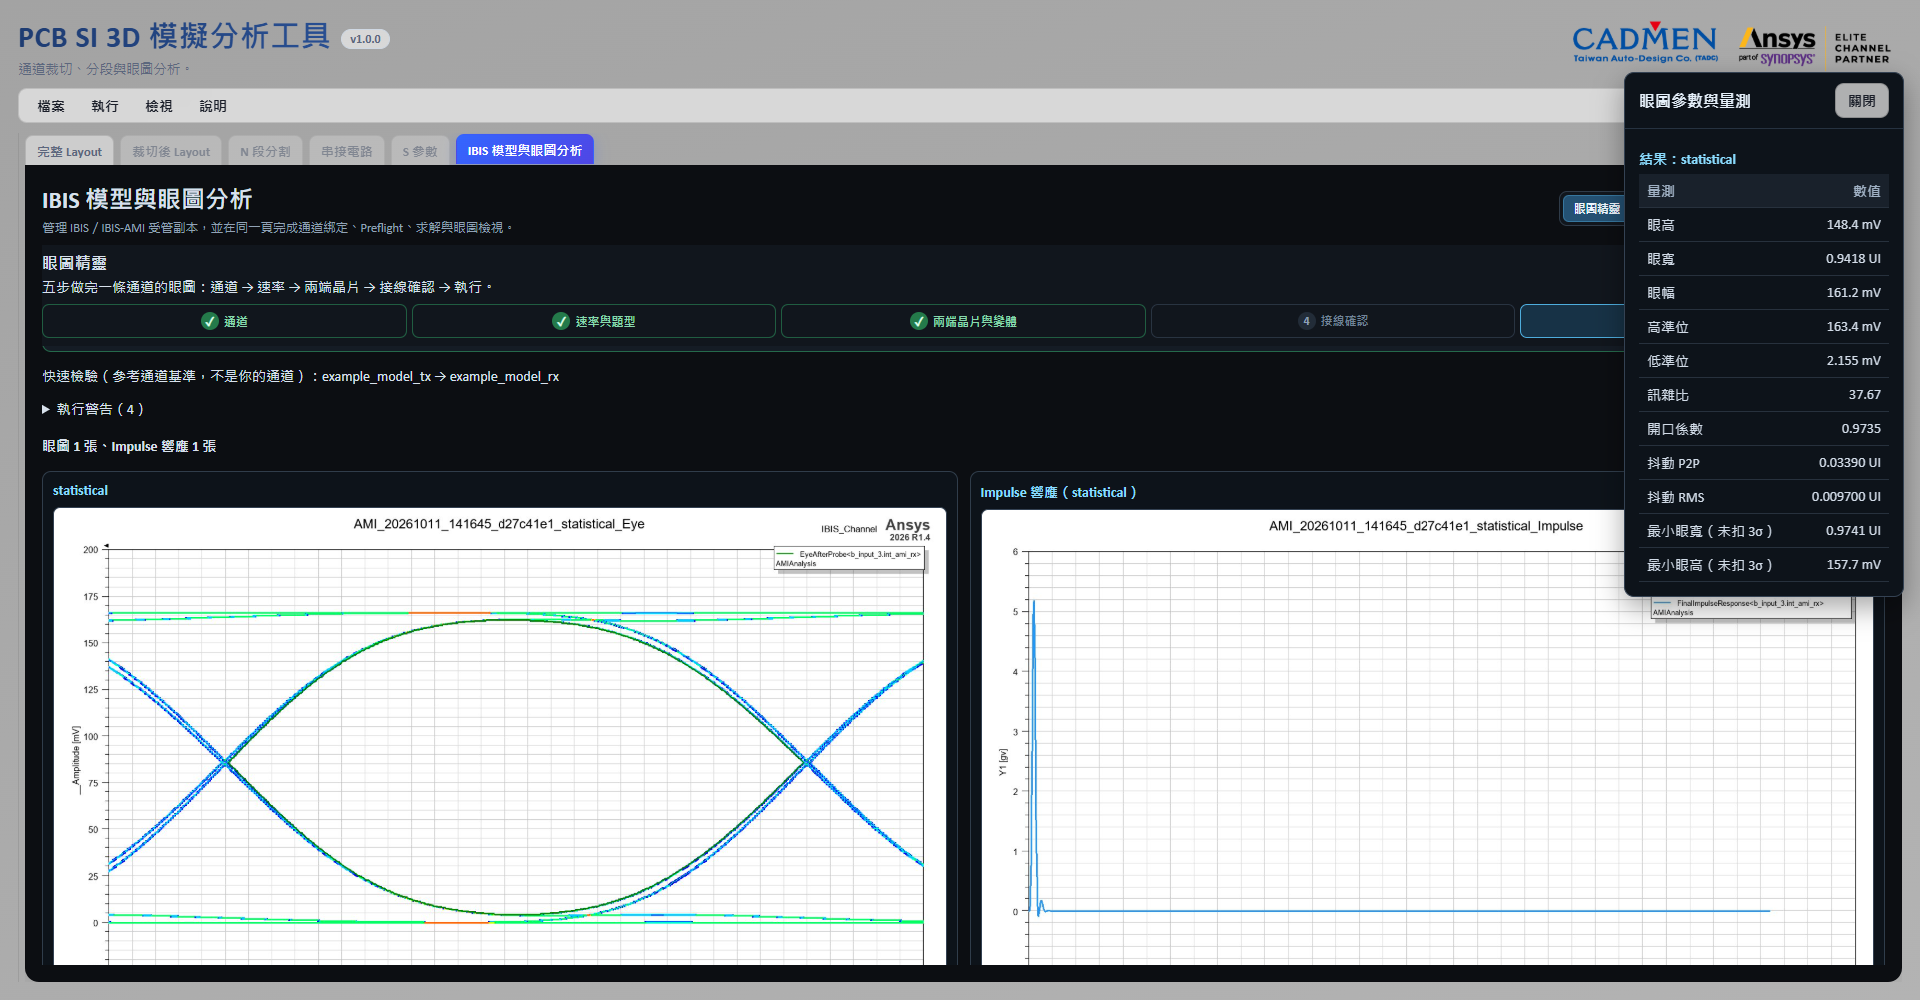
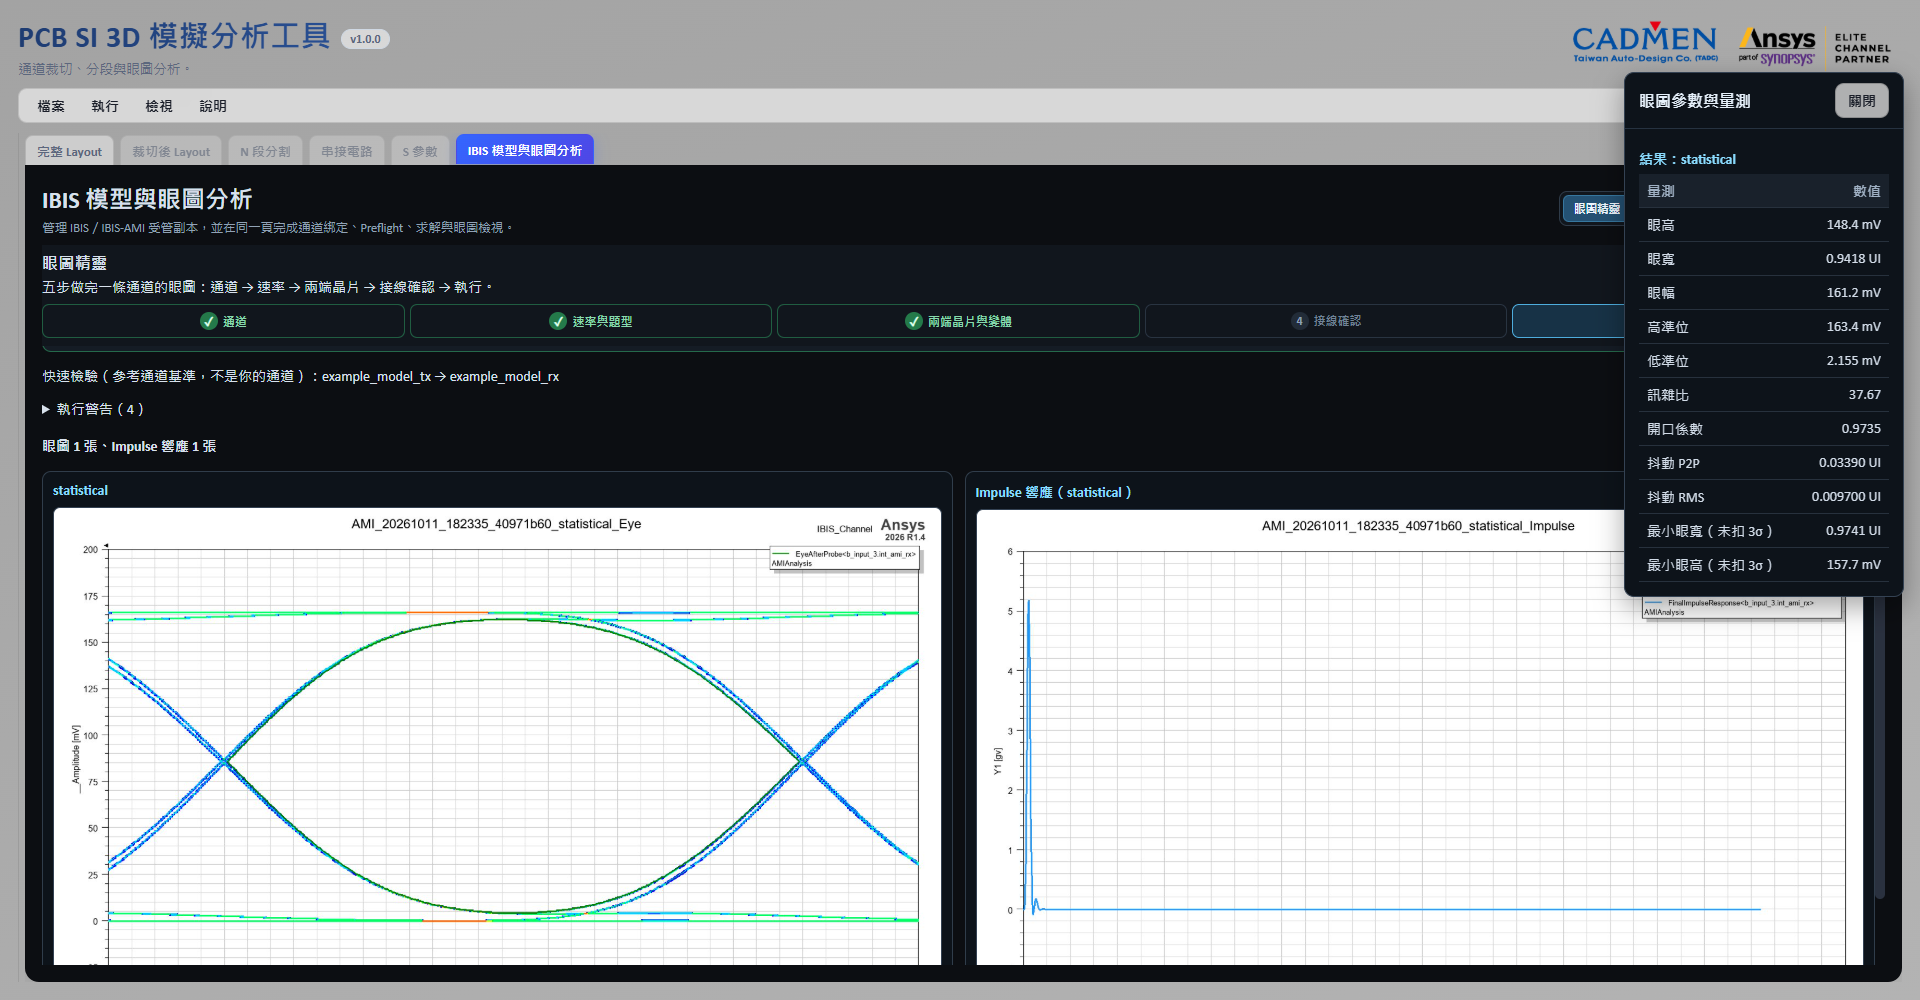
docs: 眼圖預設不疊 AEDT 量測表，重拍 06 章結果圖 (#55)

diff --git a/docs/visual-assets.md b/docs/visual-assets.md
@@ -44,8 +44,8 @@
 | `gui-26-wizard-preset.png` | 06 | 主圖 | 眼圖精靈第 2 步：常見規範帶入資料率、UI 與出處 | Ansys 範例差動通道 | 完成：瀏覽器模式 1920×1000（無視窗標題列），`cb01b63`（1.0.0），2026-10-11；PCIe Gen4 |
 | `gui-26b-wizard-ami-models.png` | 06 | 主圖 | 眼圖精靈第 3 步：兩端 AMI 套件、DLL 已信任、模型選定 | Ansys 範例 AMI 套件 | 完成：瀏覽器模式 1920×1000（無視窗標題列），`cb01b63`（1.0.0），2026-10-11 |
 | `gui-26c-wizard-ami-wiring.png` | 06 | 主圖 | 眼圖精靈第 4 步：接線、實際求解符號率與 UI、AMI 進階區 | 同上 | 完成：瀏覽器模式 1920×1000（無視窗標題列），`cb01b63`（1.0.0），2026-10-11 |
-| `gui-27-wizard-result.png` | 06 | 主圖 | 眼圖精靈第 5 步：結果頁只放眼圖畫廊，右上「眼圖參數」「開啟模擬資料夾」 | 求解授權 | 完成：瀏覽器模式 1920×1000，`f49983f`（1.0.0＋#0115 版面），2026-10-11；Ansys 範例 AMI、PCIe Gen4 快速檢驗實跑 91 秒 |
-| `gui-27b-wizard-result-params.png` | 06 | 新增圖 | 眼圖參數抽屜：量測表 | 同上 | 完成：同上；Statistical 眼高 148.4 mV／眼寬 0.9418 UI（與 `cb01b63` 那次相同） |
+| `gui-27-wizard-result.png` | 06 | 主圖 | 眼圖精靈第 5 步：結果頁只放眼圖畫廊，右上「眼圖參數」「開啟模擬資料夾」 | 求解授權 | 完成：瀏覽器模式 1920×1000，`84ee41f`（1.0.0＋#0115 版面，眼圖預設不疊 AEDT 量測表），2026-10-11；Ansys 範例 AMI、PCIe Gen4 快速檢驗實跑 186 秒；眼圖上無量測表 |
+| `gui-27b-wizard-result-params.png` | 06 | 新增圖 | 眼圖參數抽屜：量測表 | 同上 | 完成：同上；Statistical 眼高 148.4 mV／眼寬 0.9418 UI（與 `cb01b63`、`f49983f` 兩次相同） |
 | `gui-28-tdr-location.png` | 07 | 主圖 | 模擬 TDR 曲線與同一點的 Layout 標記、距離數字 | 求解 | 完成 |
 | `gui-29-measured-tdr.png` | 07 | 主圖 | 合法示範 CSV 的欄位設定與定位結果；只拍可讀區域，不拍 CSV 路徑 | 資料＋既有量測 | 缺項：沒有可公開的量測 CSV |
 | `gui-30-crosssection-preview.png` | 08 | 主圖 | 框範圍、切線與掃描後截面，訊號／參考角色可核對 | 資料 | 完成 |
@@ -82,6 +82,10 @@
 ## 重拍記錄（2026-10-11，結果頁版面）
 
 結果頁改成只放眼圖、量測表移到「眼圖參數」抽屜，各分析加「開啟模擬資料夾」後，重拍 `gui-27-wizard-result.png`、新增 `gui-27b-wizard-result-params.png`；同一套隔離後端與 Ansys 範例 AMI 模型，快速檢驗實跑一次（工具自開非圖形 AEDT，完成後自行關閉）。其他章節的結果圖不受影響：`gui-22` 是外部匯入結果（沒有資料夾按鈕），`gui-28` 的按鈕在曲線下方、不在畫面內，`gui-41` 未勾 ERL（沒有輸出檔）。
+
+## 重拍記錄（2026-10-11，眼圖不疊量測表）
+
+眼圖圖片改成預設不疊 AEDT 量測表（量測值仍在「眼圖參數」抽屜與 HTML 報告）後，以 `84ee41f` 重拍 `gui-27-wizard-result.png`、`gui-27b-wizard-result-params.png`；同一套隔離後端與 Ansys 範例 AMI 模型，快速檢驗實跑一次（工具自開非圖形 AEDT，完成後自行關閉）。逐張回看：眼圖上沒有量測表、抽屜數值齊全，無本機路徑、使用者／客戶名。
 
 ## 舊圖處理
 

diff --git a/CHANGELOG.md b/CHANGELOG.md
@@ -16,7 +16,7 @@
 | Port 與求解設定 | 元件端 Port 自動判定、內建規格設定檔、掃頻由資料率帶入 | [03](docs/manual/03-Port與求解設定.md) |
 | 分段與混合求解 | 等分或依 3D 複雜度切成 N 段，逐段指定 HFSS／SIwave；切面品質評分 | [04](docs/manual/04-分段與混合求解.md) |
 | 排程與串接 | 逐段求解、可停止與重試匯出，再串回完整通道 Touchstone | [05](docs/manual/05-排程與串接.md) |
-| 眼圖精靈 | 通道 → 速率 → 兩端晶片 → 接線確認 → 執行，五步做完單通道、多埠／DDR 與 IBIS-AMI；`[Model Selector]` 變體依驅動強度／ODT 篩選；結果頁只放眼圖，量測表在「眼圖參數」抽屜 | [06](docs/manual/06-IBIS與眼圖.md#眼圖精靈五步) |
+| 眼圖精靈 | 通道 → 速率 → 兩端晶片 → 接線確認 → 執行，五步做完單通道、多埠／DDR 與 IBIS-AMI；`[Model Selector]` 變體依驅動強度／ODT 篩選；結果頁只放眼圖，眼圖上預設不疊 AEDT 量測表，量測值在「眼圖參數」抽屜與 HTML 報告 | [06](docs/manual/06-IBIS與眼圖.md#眼圖精靈五步) |
 | 常見規範預設 | DDR4／5、LPDDR4／4X／5／5X、PCIe Gen3～6、USB 3.2 Gen1／Gen2、USB4 Gen2／Gen3、UCIe 1.1；只帶資料率、調變、bit 數下限，附官方出處 | [06](docs/manual/06-IBIS與眼圖.md#眼圖精靈五步) |
 | 模型庫 | IBIS／IBIS-AMI 受管副本、相容性預檢與自動修正、DLL 掃描與信任、參考通道健檢 | [06](docs/manual/06-IBIS與眼圖.md#模型庫與-dll-信任) |
 | SPISim 規格模型 | 沒有原廠模型時，從本機 AEDT 範本產生 IBIS／IBIS-AMI 規格模型；產生前探測授權，自動標「非原廠」 | [06](docs/manual/06-IBIS與眼圖.md#沒有模型從-aedt-內建規格產生spisim) |

diff --git a/docs/manual/06-IBIS與眼圖.md b/docs/manual/06-IBIS與眼圖.md
@@ -95,7 +95,7 @@
 
 ![眼圖精靈第 5 步：快速檢驗（參考通道基準，不是你的通道）的統計眼圖與 impulse 響應，右上角「眼圖參數」「開啟模擬資料夾」；Ansys 範例 AMI 模型、PCIe Gen4 16 Gb/s](../../graph/gui-27-wizard-result.png)
 
-上圖是快速檢驗：兩端模型接近無損參考通道，不是實際通道的結果。結果頁只放眼圖，縮圖點開放大。
+上圖是快速檢驗：兩端模型接近無損參考通道，不是實際通道的結果。結果頁只放眼圖，縮圖點開放大；眼圖上預設不疊 AEDT 量測表，數值看「眼圖參數」。
 
 | 按鈕 | 做什麼 |
 |---|---|
